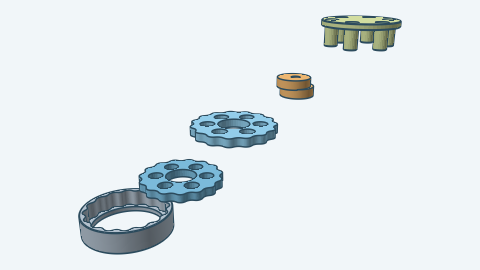
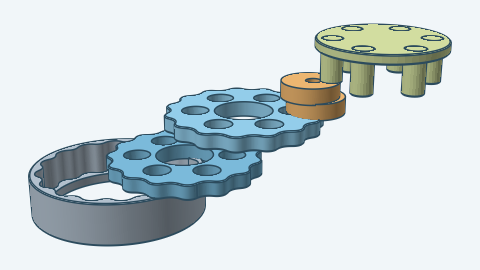
tighten cycloidal hero layout (#105)
* tighten cycloidal hero layout

* pack the cycloidal hero parts closer

Changed region(s): [[0.0312, 0.0296, 0.9688, 0.9481]]

diff --git a/tools/render/cycloidal.go b/tools/render/cycloidal.go
@@ -13,7 +13,7 @@ import (
 )
 
 // cycloidalLayout is the exploded layout of the default two-disc drive: each part moves along a staircase,
-// 55 mm along X and 45 mm along Z per step, so no part hides another.
+// 34 mm along X and 16 mm along Z per step, so the parts sit close together and every part stays visible.
 var cycloidalLayout = map[string]int{
 	cycloidal.HousingName:     -2,
 	cycloidal.DiscName(0):     -1,
@@ -23,7 +23,7 @@ var cycloidalLayout = map[string]int{
 }
 
 // cycloidalStep is the offset of one layout step.
-var cycloidalStep = r3.NewVec(55, 0, 45)
+var cycloidalStep = r3.NewVec(34, 0, 16)
 
 var cycloidalColors = map[string]solidlens.Color{
 	cycloidal.HousingName:     solidlens.RGB(0.38, 0.45, 0.52),
